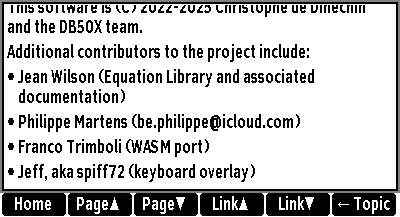
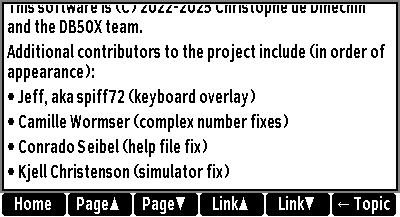
doc: Adjust authors list
Add LdBeth for the contribution to the ID fixes.

diff --git a/doc/0-Overview.md b/doc/0-Overview.md
@@ -809,17 +809,18 @@ https://github.com/c3d/db48x.
 
 This software is (C) 2022-2025 Christophe de Dinechin and the DB48X team.
 
-Additional contributors to the project include:
+Additional contributors to the project include (in order of appearance):
 
-* Jean Wilson (Equation Library and associated documentation)
-* Philippe Martens (be.philippe@icloud.com)
-* Franco Trimboli (WASM port)
 * Jeff, aka spiff72 (keyboard overlay)
 * Camille Wormser (complex number fixes)
 * Conrado Seibel (help file fix)
 * Kjell Christenson (simulator fix)
 * Václav Kadlčík (documentation fix)
+* Franco Trimboli (WASM port)
+* Jean Wilson (Equation Library and associated documentation)
 * GitHub user mipa83 (Windows documentation)
+* Philippe Martens (be.philippe@icloud.com)
+* LdBeth <andpuke@foxmail.com> (Fixes)
 
 The authors would like to acknowledge
 

diff --git a/help/db48x.md b/help/db48x.md
@@ -751,17 +751,18 @@ https://github.com/c3d/db48x.
 
 This software is (C) 2022-2025 Christophe de Dinechin and the DB48X team.
 
-Additional contributors to the project include:
+Additional contributors to the project include (in order of appearance):
 
-* Jean Wilson (Equation Library and associated documentation)
-* Philippe Martens (be.philippe@icloud.com)
-* Franco Trimboli (WASM port)
 * Jeff, aka spiff72 (keyboard overlay)
 * Camille Wormser (complex number fixes)
 * Conrado Seibel (help file fix)
 * Kjell Christenson (simulator fix)
 * Václav Kadlčík (documentation fix)
+* Franco Trimboli (WASM port)
+* Jean Wilson (Equation Library and associated documentation)
 * GitHub user mipa83 (Windows documentation)
+* Philippe Martens (be.philippe@icloud.com)
+* LdBeth <andpuke@foxmail.com> (Fixes)
 
 The authors would like to acknowledge
 

diff --git a/help/db50x.md b/help/db50x.md
@@ -760,17 +760,18 @@ https://github.com/c3d/db48x.
 
 This software is (C) 2022-2025 Christophe de Dinechin and the DB50X team.
 
-Additional contributors to the project include:
+Additional contributors to the project include (in order of appearance):
 
-* Jean Wilson (Equation Library and associated documentation)
-* Philippe Martens (be.philippe@icloud.com)
-* Franco Trimboli (WASM port)
 * Jeff, aka spiff72 (keyboard overlay)
 * Camille Wormser (complex number fixes)
 * Conrado Seibel (help file fix)
 * Kjell Christenson (simulator fix)
 * Václav Kadlčík (documentation fix)
+* Franco Trimboli (WASM port)
+* Jean Wilson (Equation Library and associated documentation)
 * GitHub user mipa83 (Windows documentation)
+* Philippe Martens (be.philippe@icloud.com)
+* LdBeth <andpuke@foxmail.com> (Fixes)
 
 The authors would like to acknowledge
 
